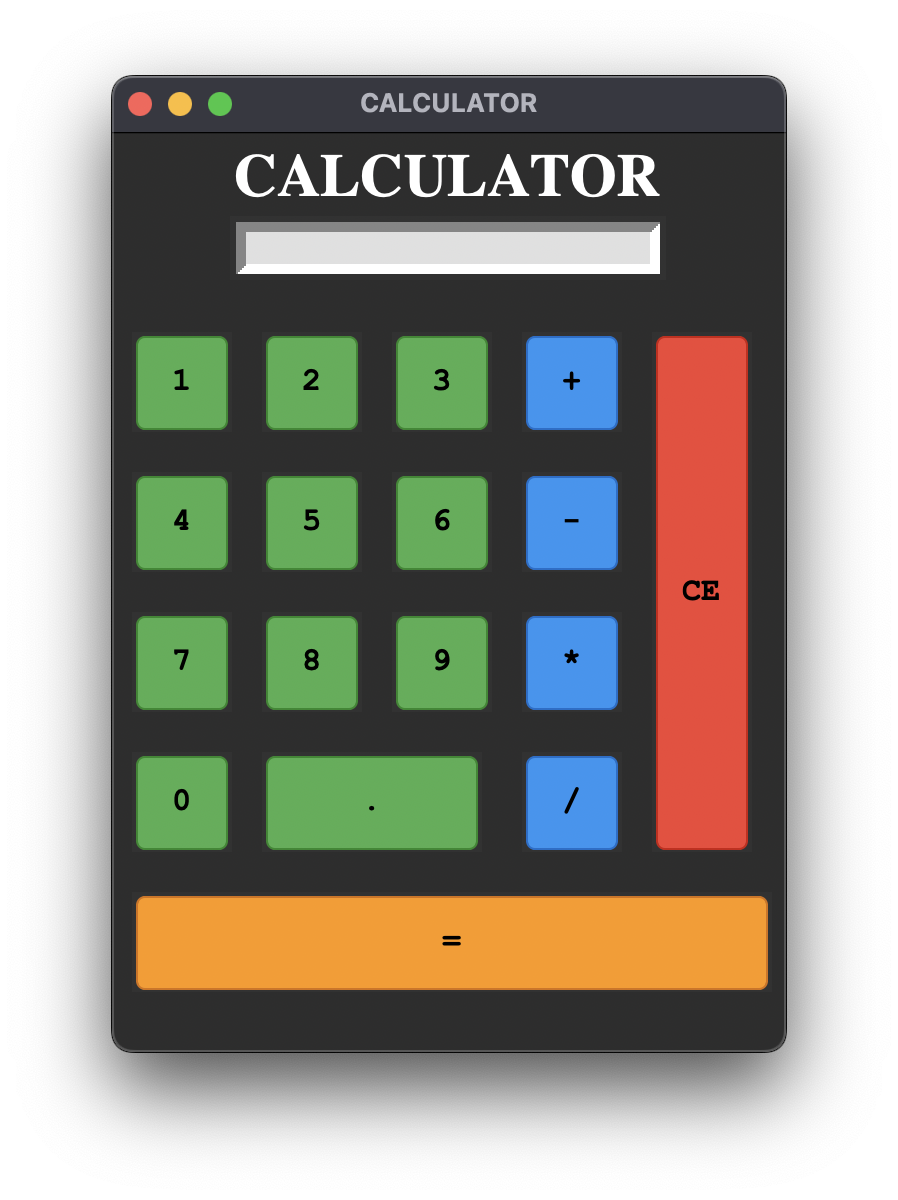
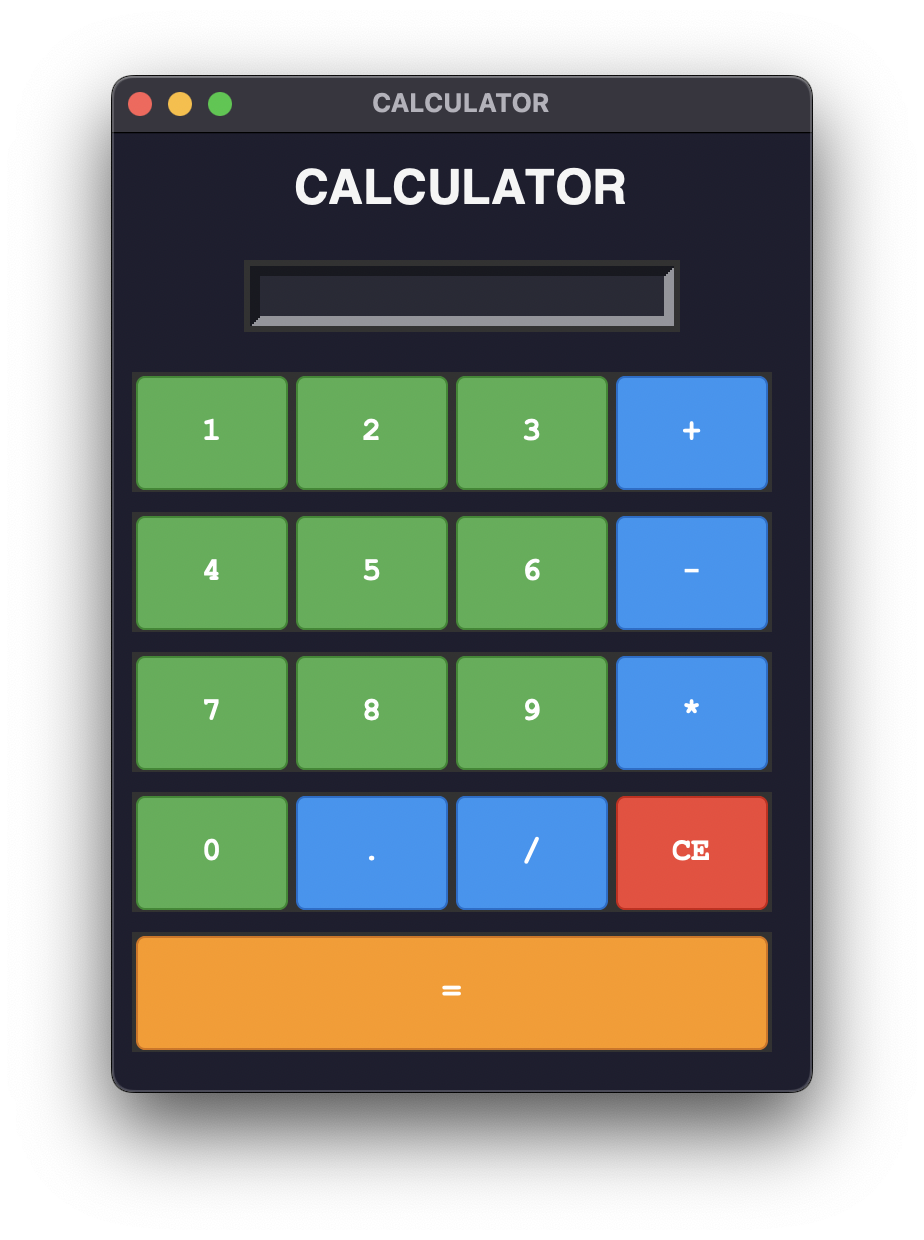
ui/ux change

diff --git a/calculator.py b/calculator.py
@@ -1,18 +1,22 @@
 from tkinter import *
+from tkmacosx import Button  # Importing the tkmacosx Button
+from tkinter import PhotoImage
 
 # Initialize main window
 me = Tk()
-me.geometry("366x460")
+me.geometry("350x480")
 me.title("CALCULATOR")
-me.config(background='#2D2D2D')  # Dark gray-blue
+me.iconphoto(True, PhotoImage(file='/Users/subhamrakshit/Desktop/coding/GUI/calculator-tkinter/calc-icon.png'))
+me.config(background='#1E1E2F')  # Deep dark blue-gray
 
-# Label
-Label(me, text="CALCULATOR", bg='#2D2D2D', fg='#FFFFFF', font=("Times", 30, 'bold')).pack(side=TOP)
+# Label for Title
+Label(me, text="CALCULATOR", bg='#1E1E2F', fg='#F5F5F5', font=("Helvetica", 24, 'bold')).pack(side=TOP, pady=10)
 
 # Input field
 textin = StringVar()
 operator = ""
 
+# Functions
 def clickbut(number):
     """Handles number or operator button click."""
     global operator
@@ -26,7 +30,7 @@ def equlbut():
         result = str(eval(operator))
         textin.set(result)
         operator = ""
-    except Exception as e:
+    except Exception:
         textin.set("Error")
         operator = ""
 
@@ -37,44 +41,52 @@ def clrbut():
     textin.set("")
 
 # Input entry field
-Entry(me, font=("Courier New", 12, 'bold'), textvar=textin, width=25, bd=5, bg='#E0E0E0', fg='#000000').pack()
+Entry(
+    me, font=("Courier New", 16, 'bold'), textvar=textin, width=20, bd=5,
+    bg='#292A36', fg='#FFFFFF', justify='right', insertbackground='#FFFFFF'
+).pack(pady=10)
 
 # Buttons configuration
 buttons = [
-    ('1', 10, 100), ('2', 75, 100), ('3', 140, 100),
-    ('4', 10, 170), ('5', 75, 170), ('6', 140, 170),
-    ('7', 10, 240), ('8', 75, 240), ('9', 140, 240),
-    ('0', 10, 310), ('.', 75, 310),
-    ('+', 205, 100), ('-', 205, 170),
-    ('*', 205, 240), ('/', 205, 310),
-    ('CE', 270, 100), ('=', 10, 380)
+    ('1', 10, 120), ('2', 90, 120), ('3', 170, 120), ('+', 250, 120),
+    ('4', 10, 190), ('5', 90, 190), ('6', 170, 190), ('-', 250, 190),
+    ('7', 10, 260), ('8', 90, 260), ('9', 170, 260), ('*', 250, 260),
+    ('0', 10, 330), ('.', 90, 330), ('/', 170, 330), ('CE', 250, 330),
+    ('=', 10, 400)
 ]
 
 # Colors
 digit_bg = '#4CAF50'  # Green
-digit_fg = '#4169E1'  # Royal Blue
+digit_fg = '#FFFFFF'
 op_bg = '#2196F3'  # Blue
-op_fg = '#4169E1'  # Royal Blue
+op_fg = '#FFFFFF'
 clr_bg = '#F44336'  # Red
-clr_fg = '#4169E1'  # Royal Blue
+clr_fg = '#FFFFFF'
 eq_bg = '#FF9800'  # Orange
-eq_fg = '#4169E1'  # Royal Blue
+eq_fg = '#FFFFFF'
 
-# Create and place buttons dynamically
+# Create and place buttons dynamically using tkmacosx Button
 for (text, x, y) in buttons:
     if text == "=":
-        Button(me, text=text, padx=151, pady=14, bd=4, bg=eq_bg, fg=eq_fg, command=equlbut,
-               font=("Courier New", 16, 'bold')).place(x=x, y=y)
+        Button(
+            me, text=text, width=320, height=60, bg=eq_bg, fg=eq_fg,
+            activebackground='#FF7700', activeforeground='#FFFFFF', command=equlbut,
+            font=("Courier New", 16, 'bold')
+        ).place(x=x, y=y)
     elif text == "CE":
-        Button(me, text=text, padx=14, pady=119, bd=4, bg=clr_bg, fg=clr_fg, command=clrbut,
-               font=("Courier New", 16, 'bold')).place(x=x, y=y)
-    elif text == ".":
-        Button(me, text=text, padx=47, pady=14, bd=4, bg=digit_bg, fg=digit_fg, command=lambda t=text: clickbut(t),
-               font=("Courier New", 16, 'bold')).place(x=x, y=y)
+        Button(
+            me, text=text, width=80, height=60, bg=clr_bg, fg=clr_fg,
+            activebackground='#FF5733', activeforeground='#FFFFFF', command=clrbut,
+            font=("Courier New", 16, 'bold')
+        ).place(x=x, y=y)
     else:
         bg_color = digit_bg if text.isdigit() else op_bg
-        Button(me, text=text, padx=14, pady=14, bd=4, bg=bg_color, fg=op_fg, command=lambda t=text: clickbut(t),
-               font=("Courier New", 16, 'bold')).place(x=x, y=y)
+        Button(
+            me, text=text, width=80, height=60, bg=bg_color, fg=digit_fg,
+            activebackground='#388E3C' if text.isdigit() else '#1976D2',
+            activeforeground='#FFFFFF', command=lambda t=text: clickbut(t),
+            font=("Courier New", 16, 'bold')
+        ).place(x=x, y=y)
 
 # Run the main loop
 me.mainloop()
